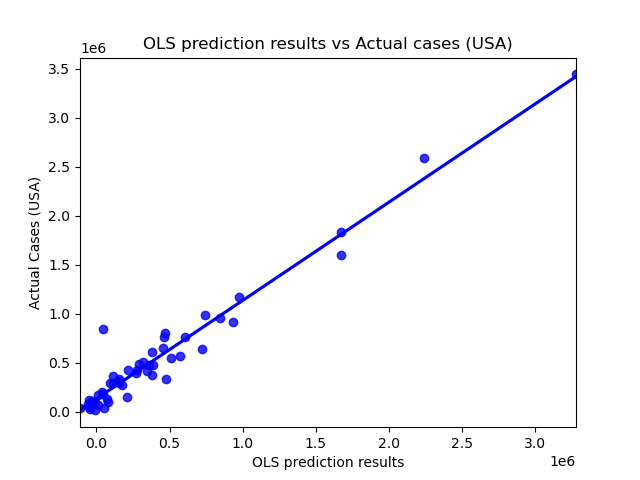
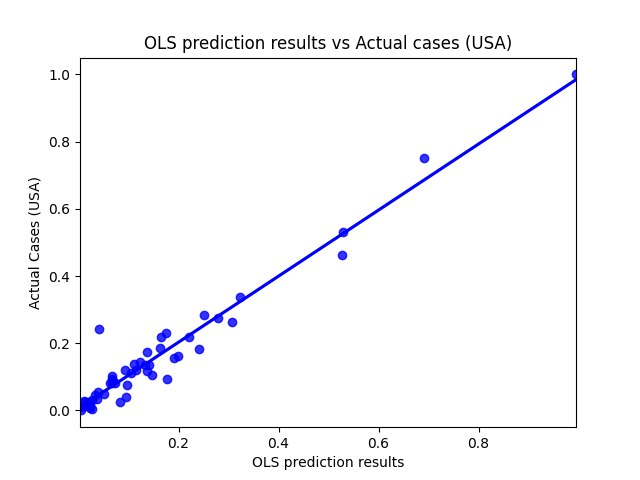
Updated figures and completed functional work on multilinear file

diff --git a/Multilinear Regression/multi_linear_reg.py b/Multilinear Regression/multi_linear_reg.py
@@ -6,10 +6,10 @@ Created on Sun Mar 14 11:08:37 2021
 """
 import os
 import matplotlib.pyplot as plt
-from tensorflow_addons.metrics import RSquare
 import numpy as np
 import pandas as pd
 from sklearn.preprocessing import MinMaxScaler
+from sklearn.metrics import explained_variance_score, r2_score
 from sklearn import linear_model
 import statsmodels.api as sm
 import seaborn as sns
@@ -17,25 +17,21 @@ import seaborn as sns
 US_DATA = r'C:\Users\samya\Documents\Programming\Github_Repos\Y2_Big_Data_Project\Project Data\US States Data.csv'
 EUROPE_DATA = r'C:\Users\samya\Documents\Programming\Github_Repos\Y2_Big_Data_Project\Project Data\europe.csv'
 
-def predict_infections_rsquare(model, test_features, test_labels):
-    # Predict values of test data and compute R-Squared coefficient
-    predicted = model.predict(test_features)
-    predicted = predicted.astype(int)
-
-    # Measure the RSquare coefficient
-    metric = RSquare()
-    metric.update_state(test_labels, predicted)
-    result = metric.result()
-
-    # Return result
-    return result.numpy()
 
 def usa_features():
+    """
+    Features to be used from USA data
+    :return: Relevant column titles of Pandas Dataframes
+    """
     return ['Population (discrete data)', 'Tests (discrete data)', 'Gini - gov 2019 (continuous data)',
             '% urban population (continuous data)', 'Actual cases (measured) (discrete data)']
 
 
 def europe_features():
+    """
+        Features to be used from EU data - This should be the same as the US data
+        :return: Relevant column titles of Pandas Dataframes
+        """
     return ['population (discrete data)', 'tests     (discrete data)', 'Gini      (discrete data)',
             '%urban pop.  (continuous data)', 'Actual cases']
 
@@ -50,17 +46,6 @@ def load_data(folder, filename):
     """
     csv_data = pd.read_csv(os.path.join('..', folder, filename))
     return csv_data
-
-
-def plot_loss(history):
-    plt.plot(history.history['loss'], label='loss')
-    plt.plot(history.history['val_loss'], label='val_loss')
-    plt.ylim([0, .25])
-    plt.xlabel('Epoch')
-    plt.ylabel('Error [Actual Cases]')
-    plt.legend()
-    plt.grid(True)
-    plt.show()
 
 
 def snsregressionplot(x, y, title, xlabel, ylabel):
@@ -186,28 +171,31 @@ def MultiLinearReg_train_x_test_y(train, test):
 
     predictions1 = regr.predict(train_features)  # SKlearn model predictions
 
-    predictions2 = model.predict(train_features)  # OLS model predictions
-
-    #SNS plots
     snsregressionplot(predictions1, train_labels, "SKlearn prediction results vs Actual cases (USA)",
                       "SKLearn prediction results", "Actual Cases (USA)")
+
+    print("US data SKlearn explained_variance_score:", explained_variance_score(train_labels, predictions1))
+    print("US data SKlearn R2:", r2_score(train_labels, predictions1))
+
+    predictions2 = model.predict(train_features)  # OLS model predictions
 
     snsregressionplot(predictions2, train_labels, "OLS prediction results vs Actual cases (USA)",
                       "OLS prediction results", "Actual Cases (USA)")
 
-    # Get the RSquare
-    rsquare_result = predict_infections_rsquare(model, test_features, test_labels)
-    print(f'RSquare: {rsquare_result}')
-
+    print("US data OLS explained_variance_score:", explained_variance_score(train_labels, predictions2))
 
     EUpredictions1 = regr.predict(test_features)
 
-    EUpredictions2 = model.predict(test_features)
-
     snsregressionplot(EUpredictions1, test_labels, "SKLearn prediction results vs Actual cases (EU)",
                       "SKLearn prediction results", "Actual Cases (EU)")
-    snsregressionplot(EUpredictions2, test_labels, "OLS prediction results vs Actual cases (EU)", "OLS prediction results",
+    print("EU data SKLearn explained_variance_score:", explained_variance_score(test_labels, EUpredictions1))
+
+    EUpredictions2 = model.predict(test_features)
+
+    snsregressionplot(EUpredictions2, test_labels, "OLS prediction results vs Actual cases (EU)",
+                      "OLS prediction results",
                       "Actual Cases (EU)")
+    print("EU data OLS explained_variance_score:", explained_variance_score(test_labels, EUpredictions2))
 
 
 if __name__ == "__main__":

diff --git a/Neural_Networks/dnn.py b/Neural_Networks/dnn.py
@@ -221,6 +221,7 @@ def train_x_test_y(train=r'US States Data.csv', test=r'europe.csv'):
 
 
 if __name__ == '__main__':
-    # Pipeline that trains a neural network model on `train` argument of `train_x_test_y` function tests on `test`
+    # Pipeline that trains a multilinear regression model on `train` argument
+    # of `train_x_test_y` function tests on `test`
     # argument of `train_x_test_y` function
     train_x_test_y(US_DATA, EUROPE_DATA)
